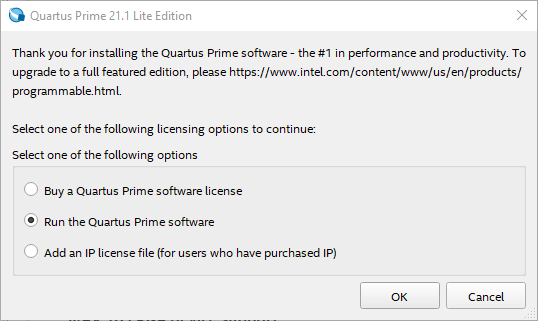
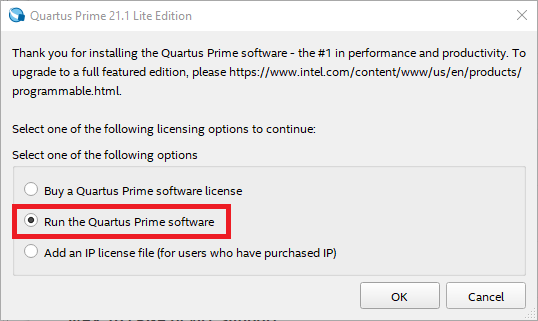
finished lab v1.0

Changed region(s): [[0.0, 0.6231, 0.4461, 0.7477]]

diff --git a/Module01/Activity_2.1/README.md b/Module01/Activity_2.1/README.md
@@ -1,5 +1,7 @@
 <div align="right">
 <img src="img/teclogo.png">
+
+V1.0 - 7/11/2021
 </div>
 
 # TC2039 - Desarrollo de Sistemas Digitales
@@ -12,7 +14,7 @@
     1.1 [Background](#background-1)
 
     1.2 [Installation](#installation-1)
-    
+
 2. [New Project Wizard](#2-new-project-wizard-1)
     
     2.1 [Navigation of Quartus Prime Lite](#21-summary-1)
@@ -48,51 +50,51 @@ Go to the [Intel FPGA software download site](https://fpgasoftware.intel.com/?ed
 <img src="img/download01.png">
 </div>
 
-Download the Quartus Prime installer, along with the MAX 10 FPGA device support file and save both files on the same folder. 
+Download the Quartus Prime installer, along with the MAX 10 FPGA device support pack, and save both files on the same folder. 
 
 <div align="center">
 <img src="img/download02.png">
 </div>
 
-Run the `QuartusLiteSetup[...].exe` file to initiate the IDE installation. The Setup Wizard will show up with a welcome screen, as shown below. Just click Next.
+Run the `QuartusLiteSetup[...].exe` file to initiate the IDE installation. The Setup Wizard will show up with a welcome screen, as shown below. Just click __Next__.
 
 <div align="center">
 <img src="img/install_01.png">
 </div>
 
-Accept the software License Agreenment and click Next.
+Accept the software License Agreenment and click __Next__.
 
 <div align="center">
 <img src="img/install_02.png">
 </div>
 
-If you opt to install the software on a different folder than the default installation directory, change the installation path on the Installation directory window. If not, just click Next.
+If you opt to install the software on a different folder than the default installation directory, change the installation path on the _**Installation directory**_ window. If not, just click __Next__.
 
 <div align="center">
 <img src="img/install_03.png">
 </div>
 
-If you saved the Quartus Prime Lite installation file and the MAX 10 FPGA device support file on the same folder, on the Select Components window you should be able to see and select the MAX 10 FPGA support pack to install alongside the Quartus Prime software installation. Make sure that both, Quartus Prime Lite Edition and MAX 10 FPGA (under Devices branch) options are checked for installation and click Next. 
+If you saved the Quartus Prime Lite installation file and the MAX 10 FPGA device support pack on the same folder, on the _**Select Components**_ window you should see and select the MAX 10 FPGA support pack to install alongside the Quartus Prime software. Make sure that both, Quartus Prime Lite Edition and MAX 10 FPGA (under Devices branch) options are checked for installation and click __Next__. 
 
 <div align="center">
 <img src="img/install_04.png">
 </div>
 
-A Summary window will show the installation folder, as well as the available and required disk space for installation. Double check the installation folder and make sure you have enough disk space for installation. If so, click Next to proceed with the installation. 
+A Summary window will show the installation folder, as well as the available and required disk space for installation. Double check the installation folder and make sure you have enough disk space for installation. If so, click __Next__ to proceed with the installation. 
 
 <div align="center">
 <img src="img/install_05.png">
 </div>
 
-Once the installation is completed in your system, a notification window will appear showing some pre-selected options by default. Keep the checked boxes as is,and click Next.
+Once the installation is completed in your system, a notification window will appear showing some pre-selected options by default. Keep the checked boxes as is, and click __Next__.
 
-The Device Driver Installation Wizard window must show up, asking to install the Altera JTAG cables driver. Click on Install to proceed. 
+The Device Driver Installation Wizard window must show up, asking to install the Altera JTAG cables driver. Click on __Install__ to proceed. 
 
 <div align="center">
 <img src="img/install_part2_02.png">
 </div>
 
-Once installation is complete, a Ready-to-use notification window must show that the Altera JTAG cables driver is installed and ready to be used. Click in Finish.
+Once installation is complete, a Ready-to-use notification window must show that the Altera JTAG cables driver is installed and ready to be used. Click __Finish__.
 
 <div align="center">
 <img src="img/install_part2_03.png">
@@ -105,7 +107,17 @@ Once installation is complete, a Ready-to-use notification window must show that
 This is a short lab that completes the basic project setup. At the end of this lab, you will be able to start a new project using New Project Wizard in Quartus Prime Software. There are other related tutorial links provided for you to learn more about the software.
 
 ### 2.2 Navigation of Quartus Prime Lite
-The first time you open Quartus Prime, a software licensing window will ask on acquiring a license. Select the Run the Quartus Prime software option, as shown below, and click Ok. After this, the main window will be shown. 
+The first time you open Quartus Prime, a software licensing window will ask on acquiring a license. Select the _**Run the Quartus Prime software**_ option, as shown below, and click __OK__. 
+
+<div align="center">
+<img src="img/Quartus01.png">
+</div>
+
+After this, the main window will be shown.
+
+<div align="center">
+<img src="img/Quartus02.png">
+</div>
 
 The Quartus Prime main window is composed of the following sections:
 
@@ -124,7 +136,7 @@ In the main toolbar of Quartus, navigate to the File drop down menu and New Proj
 <img src="img/Quartus04.png">
 </div>
 
-__Pane 1: Introduction.__ There is nothing to configure on this pane. Click Next to continue.
+__Pane 1: Introduction.__ There is nothing to configure on this pane. Click __Next__ to continue.
 
 <div align="center">
 <img src="img/Quartus05.png">
@@ -134,8 +146,8 @@ __Pane 2: Directory, Name, Top-Level Entity.__
 
 * Fill in with a directory of your choice. It is recommended to be a personal directory, and not a directory under Quartus installation which is the default.
 
-* Call the project switch_to_led and the top level entity switch_to_led.
-The name of the top-level design entity is case-sensitive so ensure that you type the name in all lower-case. See Figure 4 below for a completed Pane 2.
+* Call the project _**switch_to_led**_ and the top level entity _**switch_to_led**_.
+The name of the top-level design entity is case-sensitive so ensure that you type the name in all lower-case. See figure below for a completed Pane 2.
 
 *Note: the screen shots will have a different directory than what you will use
 for your project. This is fine!*
@@ -158,9 +170,9 @@ __Pane 4: Add Files.__ Click __Next.__ We will add project source files later.
 
 __Pane 5: Family, Device, and Board Settings.__
 
-* Family should be set to MAX 10. Make sure the tab is set to Device.
+* Family should be set to __MAX 10__. Make sure the tab is set to Device.
 
-* The part number for the FPGA chip you will use is __10M50DAF484C7G__. You need to type this number in the Name filter bar.
+* The part number for the FPGA chip you will use is __10M50DAF484C7G__. You need to type this number in the _Name filter_ bar.
 
 <div align="center">
 <img src="img/Quartus09.png">
@@ -172,9 +184,9 @@ __Pane 6: EDA Tool Settings.__ Skip this section and click __Next__. This sectio
 <img src="img/Quartus10.png">
 </div>
 
-__Pane 7: Summary.__ Pane 7 should look similar to the image seen in Figure 5.
+__Pane 7: Summary.__ Pane 7 should look similar to the image below.
 
-*Note: you now have a project called switch_to_led, and top-level entity called switch_to_led, no files selected (yet) and are using a Cyclone III device.*
+*Note: you now have a project called switch_to_led, and top-level entity called switch_to_led, no files selected (yet) and are using a MAX 10 device.*
 
 Click __Finish__.
 
@@ -182,19 +194,19 @@ Click __Finish__.
 <img src="img/Quartus11.png">
 </div>
 
-You should now see something similar to Figure 6 (__The Tool View Window__ may just have a gray Quartus Prime screen. This is fine.)
+You should now see something similar to the screenshot shown below (__The Tool View Window__ may just have a gray Quartus Prime screen. This is fine.)
 
 <div align="center">
 <img src="img/Quartus03.png">
 </div>
 
-Some windows may not be shown by default. To customize what windows are shown, click on the View tab and look under the Utility Windows drop down as seen in Figure 7.
+Some windows may not be shown by default. To customize what windows are shown, click on the _View_ tab and look under the Utility Windows drop down as seen in the following figure.
 
 <div align="center">
 <img src="img/Quartus12.png">
 </div>
 
-If you navigate in Windows Explorer to your project directory, you will see some files and directories created by the New Project Wizard as part of the setup process.
+If you navigate in __Windows Explorer__ to your project directory, you will see some files and directories created by the __New Project Wizard__ as part of the setup process.
 
 ## 3. Switch to LED
 ### 3.1 Summary
@@ -202,9 +214,9 @@ This lab will step you through the process of a simple design from generating yo
 programming image that is downloaded to your Intel FPGA Development kit. At the end of this lab, you will be able to test the functionality of the example digital electronic circuits by toggling the switches and observing the LEDs for proper circuit operation.
 
 ### 3.2 Creating a New File
-Create a Verilog HDL file. Go the File dropdown menu and select New. 
+Create a Verilog HDL file. Go the __File__ dropdown menu and select __New__. 
 
-A window, shown in Figure 8, should pop up. Click on Verilog HDL File and then Ok.
+A window, similar to the shown below, should pop up. Click on __Verilog HDL File__ and then __OK__.
 
 <div align="center">
 <img src="img/Quartus13.png">
@@ -212,11 +224,11 @@ A window, shown in Figure 8, should pop up. Click on Verilog HDL File and then O
 
 ### 3.3 Adding Verilog Code
 Create a simple module in your Verilog HDL file copying/pasting this code from the file
-switch_to_led.v.
+[_**switch_to_led.v**_](switch_to_led.v).
 
 The code you will use is displayed below. Do not cut and paste from here as sometimes cut and paste from a GitHub pdf or downloaded pdf introduces some illegal characters.
 
-``` verilog
+```verilog
 module switch_to_led(SW, LEDR); //create module switch_to_led
 input [9:0] SW; // input declarations: 10 switches
 output [9:0] LEDR; // output declarations: 10 red LEDs
@@ -229,13 +241,13 @@ compile properly! Verilog treats all blank space (spaces or tabs) the same.
 
 __BRAIN EXERCISE:__ Check your syntax carefully! Can you explain what this circuit does?
 
-Click on File, name the file as switch_to_led (ensuring case-sensitivity), and click
-Save As… to save your Verilog file.
+Click on __File__, name the file as _**switch_to_led**_ (ensuring case-sensitivity), and click
+__Save As…__ to save your Verilog file.
 
-Next you will run Analysis and Elaboration. Analysis and Elaboration checks the syntax of your Verilog code, resolves references to other modules and maps to FPGA logic. If you see any errors during the Analysis and Elaboration step, carefully review your Verilog code for syntax errors and re-run this step. 
+Next you will run __Analysis and Elaboration__. Analysis and Elaboration checks the syntax of your Verilog code, resolves references to other modules and maps to FPGA logic. If you see any errors during the Analysis and Elaboration step, carefully review your Verilog code for syntax errors and re-run this step. 
 
-To run Analysis and Elaboration, click the Play button with a green check mark,
-shown in Figure 9 below.
+To run __Analysis and Elaboration__, click the Play button with a green check mark,
+shown in the figure below.
 
 <div align="center">
 <img src="img/Quartus14.png">
@@ -250,7 +262,7 @@ By default, Quartus Prime does not know how the FPGA pins on the DE10-Lite devel
 
 The next steps will assign the switches and LED signals in your code to the appropriate pins.
 
-Using the main toolbar at the top of the Quartus window, navigate to the Assignments dropdown menu as shown above in Figure 10. Click on Pin Planner and a window similar to the image in Figure 11 should open.
+Using the main toolbar at the top of the Quartus window, navigate to the __Assignments__ dropdown menu as shown above. Click on __Pin Planner__ and a window similar to the image below should open.
 
 <div align="center">
 <img src="img/Quartus16.png">
@@ -260,6 +272,8 @@ We can see the I/O pins have not been assigned to any locations yet. To make the
 
 *Note: The switch_to_led lab does not require the CLOCK_50 signal but it will be used in
 the final lab and will resolve when you run that lab.*
+
+<div align="center">
 
 | Node name | Location | I/O Standard |
 |---|---|---|
@@ -285,30 +299,32 @@ the final lab and will resolve when you run that lab.*
 | SW[0]   | PIN_C10 | 3.3 LVTTL |
 | CLOCK_50 | PIN_P11 | 3.3 LVTTL |
 
+</div>
+
 __TO ASSIGN PINS__
 
-Match the Signal Name (1st column) with the FPGA Pin # (2nd column) in the table above. Assign LEDR[9] to PIN_B11 by typing PIN_B11 in the Location column in the Pin Planner.
+Match the __Signal Name__ (1st column) with the __FPGA Pin Location__ (2nd column) in the table above Also, assign each pin a __3.3 LVTTL__ standard. Assign __LEDR[9]__ to __PIN_B11__ by typing `PIN_B11` in the Location column in the __Pin Planner__.
 
 ___Note:__ the signal names in your code and names in the manual don’t have to match. As long as you connect the names in your design to the proper pin location, your design will be connected properly. In this lab, we have named the signals as a vector so pin names are of the form LEDR[0], LEDR[1], and so on._
 
-An alternate method is to left click on the Node Name in the Pin Planner and drag the pin on top of the ball grid map location assigned in the table. Release the pin on the proper location. Hit the escape key and move to the next pin. Assign LEDR[8] to PIN_W21 using this method.
+An alternate method is to left-click on the __Node Name__ in the __Pin Planner__ and drag the pin on top of the ball grid map location assigned in the table. Release the pin on the proper location. Hit the escape key and move to the next pin. Assign __LEDR[8]__ to __PIN_A11__ using this method.
 
-When you finish, you can just close the window – the Pin Planner does not have a Save button, but it will save anyways. This switch_to_led lab does not require the CLOCK_50 signals so you can ignore these for the time being. The clock signal is required for the Knight Rider lab, so you will need to assign it prior to compiling that lab.
+When you finish, you can just close the window (the __Pin Planner__ does not have a __Save__ button, but it will save anyways). This _**switch_to_led**_ lab does not require the `CLOCK_50` signals so you can ignore these for the time being. The clock signal will be required in further labs, so you will need to assign it prior to compiling that lab.
 
-Last, we will assign the remaining pins using a TCL command. In Quartus, proceed to View → Utility Windows → TCL Console. You should see a window across the bottom of your Quartus window as shown in Figure 12. If it doesn’t show up, try the command again as this toggle the window on and off.
+Last, we will assign the remaining pins using a TCL command. In Quartus, proceed to __View → Utility Windows → TCL Console__. You should see a window across the bottom of your Quartus window as shown below. If it doesn’t show up, try the command again as this toggle the window on and off.
 
 <div align="center">
 <img src="img/Quartus17.png">
 </div>
 
-Open this file that contains the TCL pin placement commands: DE10_Lite_pins.tcl.
+Open this file that contains the TCL pin placement commands: [_**DE10_Lite_pins.tcl**_](DE10_Lite_pins.tcl).
 
-Copy the commands from the file and enter them in the TCL Console window. Note that if you reassign pins that have already been assigned in the pin planner, this will not cause a problem, as long as the pin locations are correct. Make sure that carriage returns are properly copied over from these TCL commands into the TCL utility window. If all the lines in the DE1SOC_pins.tcl show up on one line, try another editor (eg vi seems to merge all the lines and notepad includes the carriage returns). If all 21 TCL commands show up as a single continuous line, you will need to copy and paste each command one at a time or copy from a different editor. The beginning of each line starts with set_location_assignment.
+Copy the commands from the file and enter them in the TCL Console window. Note that if you reassign pins that have already been assigned in the pin planner, this will not cause a problem, as long as the pin locations are correct. Make sure that carriage returns are properly copied over from these TCL commands into the TCL utility window. If all the lines in the DE10_Lite_pins.tcl show up on one line, try another editor (e.g., vi seems to merge all the lines and notepad includes the carriage returns). If all 21 TCL commands show up as a single continuous line, you will need to copy and paste each command one at a time or copy from a different editor. The beginning of each line starts with `set_location_assignment`.
 
 ___Note:__ Make sure you enter the last carriage return entered in the TCL command
-window to pick up the last line CLOCK_50 pin location._
+window to pick up the last line `CLOCK_50 pin location`._
 
-Now the remaining pins have been assigned for you by the script. To check what has been  assigned, you can return to the Pin Planner application or alternatively open the Assignment Editor Window (Assignments → Assignment Editor) to check that the TCL commands have properly set the pinout for your Switch to LED design. Try both methods to familiarize yourself with different techniques to manage and observe pin constraints. Note the direction of the ports since they match your switch_to_led design. CLOCK_50 port is indicated with a question mark since it doesn’t exist in your design, but will be used in a subsequent lab.
+Now the remaining pins have been assigned for you by the script. To check what has been  assigned, you can return to the __Pin Planner__ application or alternatively open the __Assignment Editor__ Window (_**Assignments → Assignment Editor**_) to check that the TCL commands have properly set the pinout for your Switch to LED design. Try both methods to familiarize yourself with different techniques to manage and observe pin constraints. Note the direction of the ports since they match your _switch_to_led_ design. `CLOCK_50` port is indicated with a question mark since it doesn’t exist in your design, but will be used in a subsequent lab.
 
 <div align="center">
 <img src="img/Quartus18.png">
@@ -324,38 +340,40 @@ After roughly 1 to 2 minutes depending on your machine type and amount of RAM, t
 </div>
 
 ### 3.6 Driver Installation and FPGA Programming
-A successful compilation will produce an SRAM object file, which configures the interconnect and logic of the FPGA to implement your RTL. This file is produced in the output_files folder of your Quartus project directory. We need to tell Quartus to program this file to our FPGA. Additionally, we need the Quartus Programmer tool to know what devices are on the JTAG chain. In this case the DE1-SoC has an additional ARM hard processor. To program the FPGA the proper drivers must also be installed. Perform the following steps to configure drivers and program the DE1-SoC using the Quartus Prime Programmer tool.
+A successful compilation will produce an SRAM object file, which configures the interconnect and logic of the FPGA to implement your RTL. This file is produced in the `output_files` folder of your Quartus project directory. We need to tell Quartus to program this file to our FPGA. 
+
+Additionally, we need the Quartus Programmer tool to know what devices are on the JTAG chain. To program the FPGA the proper drivers must also be installed. Perform the following steps to configure drivers and program the DE10-Lite using the Quartus Prime Programmer tool.
 1. Ensure the USB cable is connected from the DE10-Lite to the host computer. This should automatically power on the development kit.
-2. Open your Device Manager by hitting the Windows Key and typing Device Manager.
-3. Navigate to the Other Devices section of the Device Manager and expand to reveal the USB-Blaster device, if it is in another device category, the drivers may have previously been installed.
+2. Open your __Device Manager__ by hitting the Windows Key and typing Device Manager.
+3. Navigate to the __Other Devices__ section of the __Device Manager__ and expand to reveal the __USB-Blaster__ device, if it is in another device category, the drivers may have previously been installed.
 
 <div align="center">
 <img src="img/drivers01.png">
 </div>
 
-4. Right-click on USB-Blaster to select Update Driver and choose to browse your computer for driver software and navigate to the following directory path: `%QUARTUS_ROOTDIR%\intelFPGA_lite\18.0\quartus\drivers` where `%QUARTUS_ROOTDIR%` is the installation directory of Quartus Prime Lite.
+4. Right-click on __USB-Blaster__ to select __Update Driver__ and choose to browse your computer for driver software and navigate to the following directory path: `%QUARTUS_ROOTDIR%\intelFPGA_lite\18.0\quartus\drivers` where `%QUARTUS_ROOTDIR%` is the installation directory of Quartus Prime Lite.
 
 <div align="center">
 <img src="img/drivers02.png">
 </div>
 
-5. Once you have the proper file path selected, click on Next and the driver for the USB Blaster should be installed.
+5. Once you have the proper file path selected, click __Next__ and the driver for the __USB Blaster__ should be installed.
 
 <div align="center">
 <img src="img/drivers03.png">
 </div>
 
-6. With the drivers installed we may now program the FPGA on the DE10-Lite. First, open the programmer tool from Quartus by navigating Tools → Programmer.
+6. With the drivers installed we may now program the FPGA on the DE10-Lite. First, open the programmer tool from Quartus by navigating _**Tools → Programmer**_.
 
 <div align="center">
 <img src="img/programmer01.png">
 </div>
 
-7. If drivers were successfully installed, next to the “Hardware Setup…” button, you should see "USB_Blaster [USB-XX]" indicating an SoC-type DE development kit has been detected.
-a. If not, you may need to click Hardware Setup and from the Currently selected hardware dropdown menu select USB_Blaster [USB-XX] and press Close.
-8. Click Auto Detect.
-9. Finally check the Program/Configure box for the 10M50DAF484 FPGA device and press Start.
-10. Verify that the Progress bar indicates “100% (successful)”. Now you can play with the board switches and see what happens.
+7. If drivers were successfully installed, next to the __Hardware Setup…__ button, you should see __USB_Blaster [USB-XX]__ indicating an SoC-type DE development kit has been detected.
+a. If not, you may need to click __Hardware Setup__ and from the __Currently selected hardware__ dropdown menu select __USB_Blaster [USB-XX]__ and press __Close__.
+8. Click __Auto Detect__.
+9. Finally check the __Program/Configure__ box for the 10M50DAF484 FPGA device and press __Start__.
+10. Verify that the Progress bar indicates __100% (successful)__. Now you can play with the board slide switches and see what happens.
 
 <div align="center">
 <img src="img/programmer02.png">
